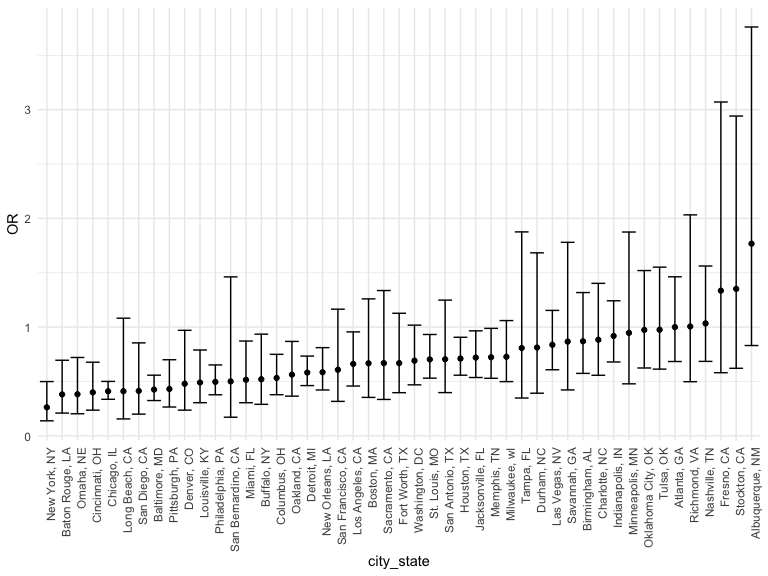
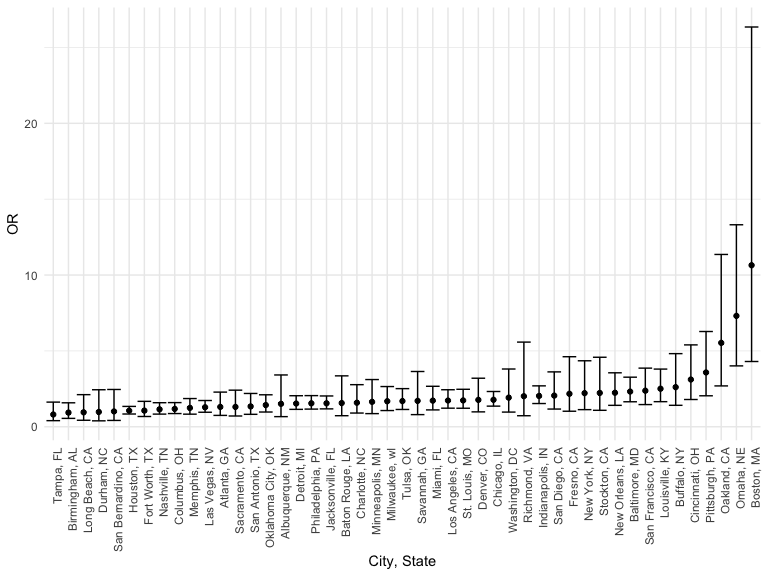
finishing up problem 1, titling plot

diff --git a/p8105_hw6_ar4041.md b/p8105_hw6_ar4041.md
@@ -1,6 +1,6 @@
 Homework 6
 ================
-2020-12-04
+2020-12-08
 
 # Problem 1
 
@@ -17,16 +17,21 @@ homicide_df =
   ) %>% 
   filter(
     victim_race %in% c("White", "Black"),
-    city_state != "Tulsa, AL") %>% 
+    city_state != "Tulsa, AL",
+    city_state != "Dallas, TX",
+    city_state != "Phoenix, AZ",
+    city_state != "Kansas City, MO") %>% 
   select(city_state, resolution, victim_age, victim_race, victim_sex)
 ```
 
-First city attempt
+Starting with Baltimore
 
 ``` r
 baltimore_df =
   homicide_df %>% 
   filter(city_state == "Baltimore, MD")
+
+baltimore_model = 
 glm(resolution ~ victim_age + victim_race + victim_sex, 
     data = baltimore_df,
     family = binomial()) %>% 
@@ -40,14 +45,7 @@ glm(resolution ~ victim_age + victim_race + victim_sex,
   knitr::kable(digits = 3)
 ```
 
-| term              |    OR | CI\_lower | CI\_upper |
-| :---------------- | ----: | --------: | --------: |
-| (Intercept)       | 1.363 |     0.975 |     1.907 |
-| victim\_age       | 0.993 |     0.987 |     1.000 |
-| victim\_raceWhite | 2.320 |     1.648 |     3.268 |
-| victim\_sexMale   | 0.426 |     0.325 |     0.558 |
-
-Attempt across cities
+GLM model across all cities
 
 ``` r
 models_results_df = 
@@ -65,20 +63,33 @@ models_results_df =
     CI_lower = exp(estimate - 1.96 * std.error),
     CI_upper = exp(estimate + 1.96 * std.error)
   ) %>% 
-  select(city_state, term, OR, starts_with("CI")) 
+  select(city_state, term, OR, starts_with("CI"))
 ```
 
+Putting the estimates into a plot
+
 ``` r
-models_results_df %>% 
-  filter(term == "victim_sexMale") %>% 
-  mutate(city_state = fct_reorder(city_state, OR)) %>% 
-  ggplot(aes(x = city_state, y = OR)) + 
-  geom_point() + 
-  geom_errorbar(aes(ymin = CI_lower, ymax = CI_upper)) + 
-  theme(axis.text.x = element_text(angle = 90, hjust = 1))
+estimate_plot = 
+  models_results_df %>% 
+    filter(term == "victim_raceWhite") %>% 
+    mutate(city_state = fct_reorder(city_state, OR)) %>% 
+    ggplot(aes(x = city_state, y = OR)) + 
+    geom_point() + 
+    geom_errorbar(aes(ymin = CI_lower, ymax = CI_upper)) + 
+    theme(axis.text.x = element_text(angle = 90, hjust = 1)) +
+    labs(
+    x = "City, State")
+
+estimate_plot
 ```
 
 <img src="p8105_hw6_ar4041_files/figure-gfm/unnamed-chunk-4-1.png" width="90%" />
+
+This plot shows cities in order of increasing odds that crimes will be
+resolved if the victim is white. In Boston, White victims have over 10
+times the odds of having their cases resolved than Black victims- while
+there’s a large confidence interval, the odds ratio is still
+significantly high. The city with the lowest odds ratio is Tampa.
 
 ## Problem 2
 
